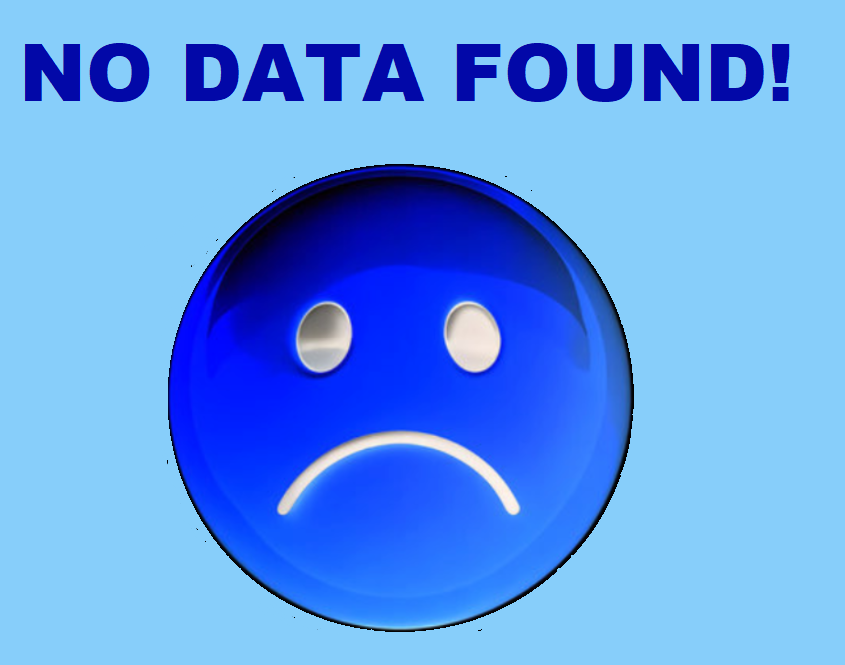
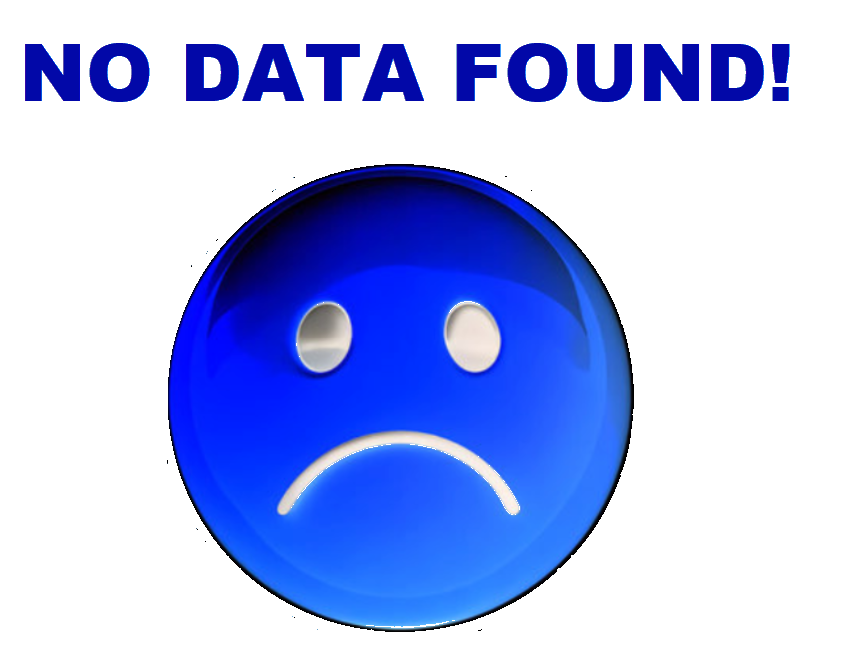
New style

diff --git a/src/styles.css b/src/styles.css
@@ -237,7 +237,8 @@ img:hover {
     /* background-color: lightgray; */
     font-family: Arial, Helvetica, sans-serif;       
      border-radius: 15px;
-    opacity:0.8;
+    /* opacity:0.8; */
+    background-color:  #8da0c2cc; /*cc = 80% opacity*/
 }
 
 .rd-details {
@@ -246,7 +247,8 @@ img:hover {
 
 .results {
     /* background-color: lightskyblue; */
-    background: linear-gradient(90deg, #8da0c2 0%, #f0f5ff 50%, #6a7b9a 100%);
+    /* background: linear-gradient(90deg, #8da0c2 0%, #f0f5ff 50%, #6a7b9a 100%); */
+    background-color:  #8da0c2cc; /*cc = 80% opacity*/
     display: flex;
     flex-direction: column;
     align-items: stretch;
@@ -343,15 +345,15 @@ tr:nth-child(even) {
 
 footer {
     display: flex;
-    justify-content: space-between;
+    justify-content: space-evenly;
     align-items: center;
     color: white;
     font-family: Arial, Helvetica, sans-serif;
+    font-size: 16px;
     position: fixed;
     bottom: 0;
-    width: 70%;
+    width: 100%;    
 }
-
 
 .HamburgerMenu {    
     position: absolute;

diff --git a/src/components/Home.jsx b/src/components/Home.jsx
@@ -1,11 +1,11 @@
 export default function Home(props) {
 
-    return (
+    return ( 
         <footer>
-            <p>&copy; 2026 Emina Razic.</p>
+            <p>&copy; 2026 Emina Razic</p>
             <address>
                 Contact me at <a href="mailto:[email redacted]">[email redacted]</a>
             </address>
-        </footer>
+        </footer> 
     );
 }